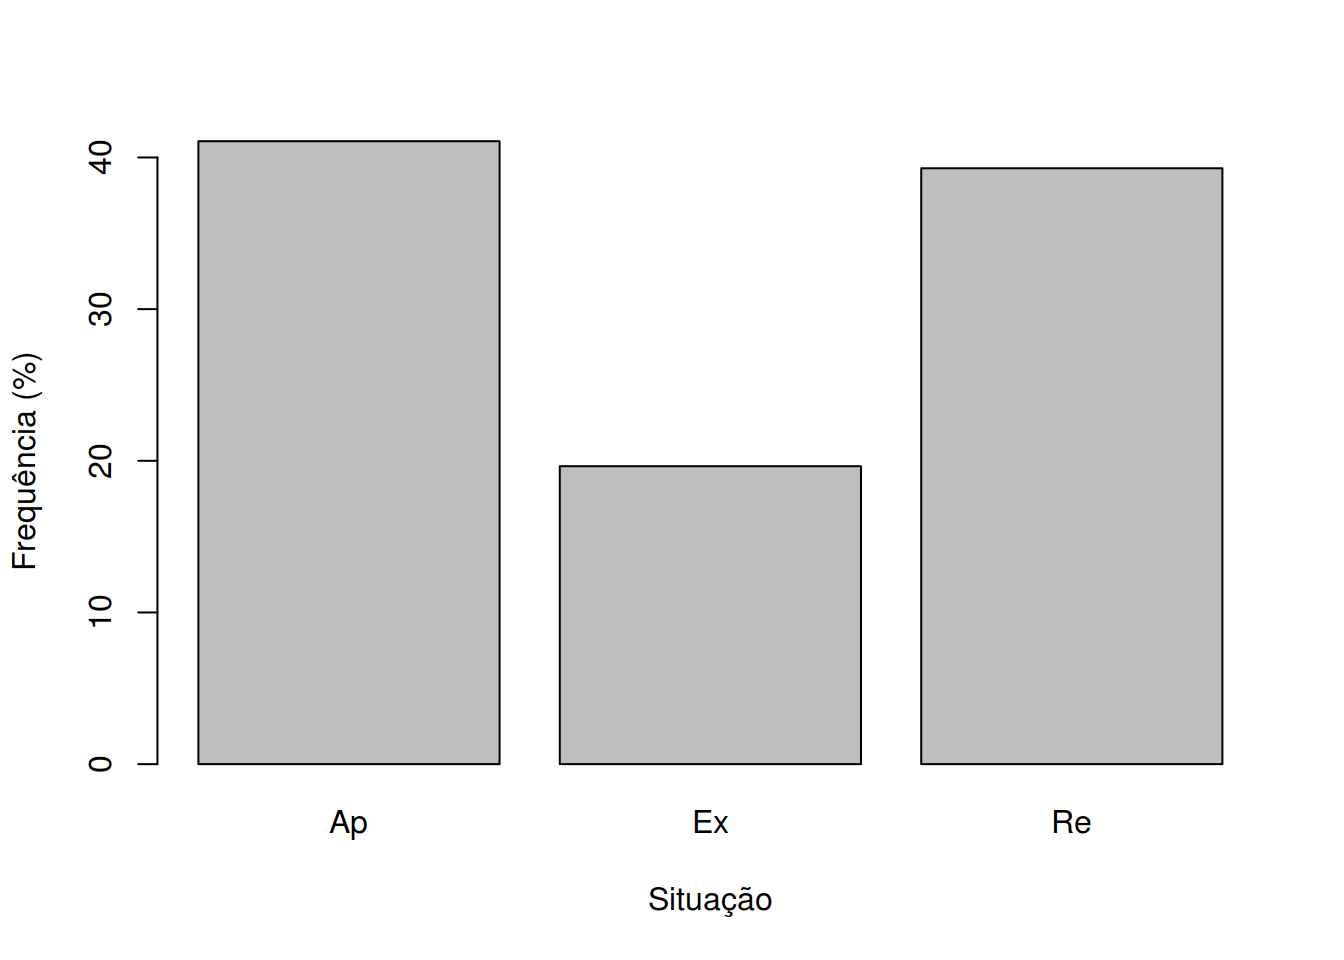
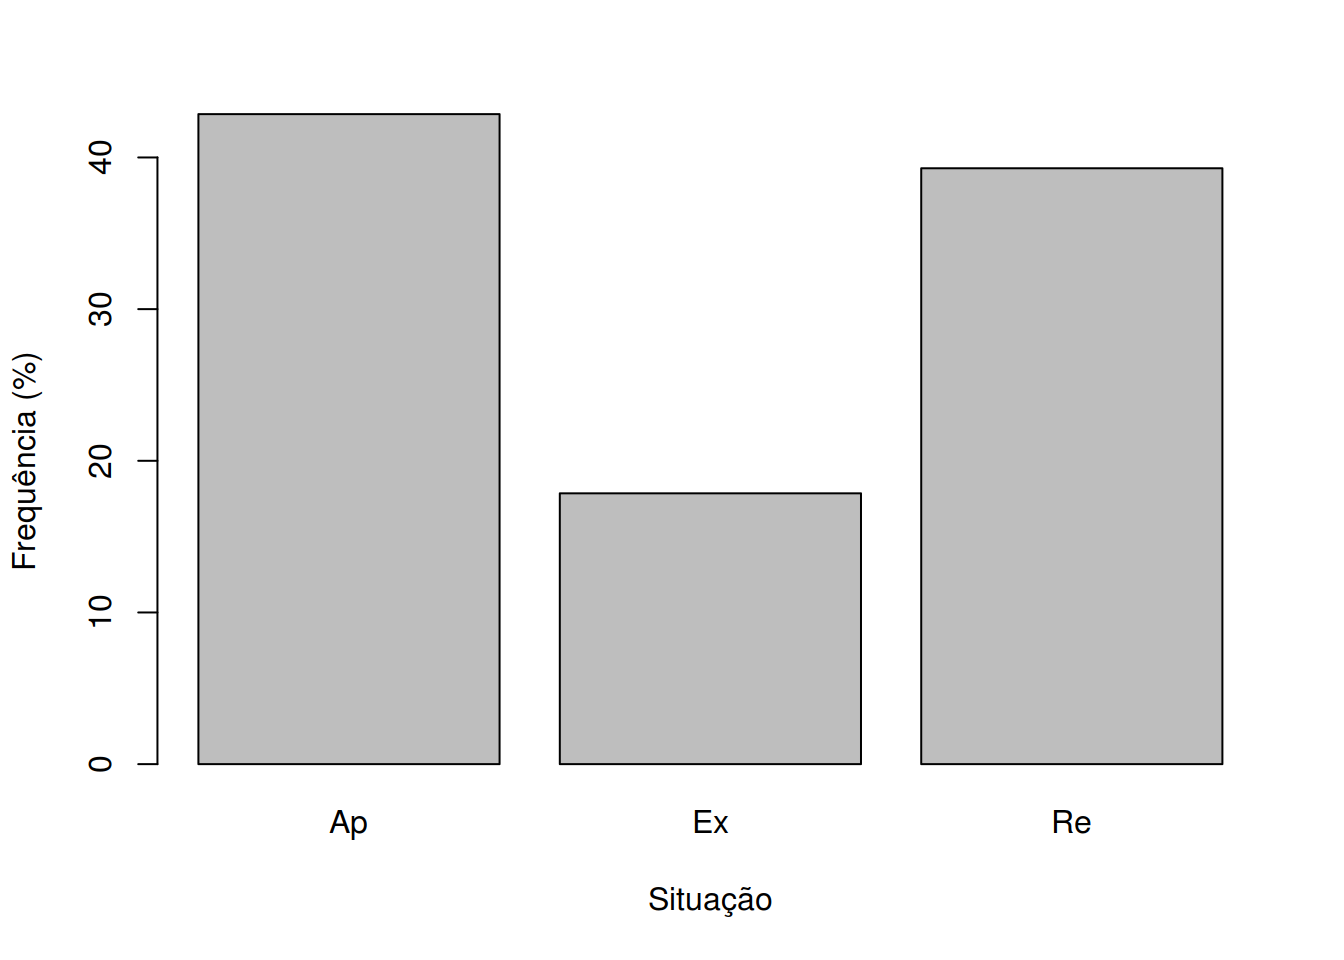
Atualiza uma nota

Changed region(s): [[0.4062, 0.4688, 0.6562, 0.5312], [0.125, 0.0938, 0.375, 0.1562]]

diff --git a/04_Entrada_de_dados.html b/04_Entrada_de_dados.html
@@ -679,49 +679,23 @@ str(dados.xls)</code></pre>
 <p>Para carregar conjuntos de dados que são disponibilizados com o R, use o comando <code>data()</code>. Por exemplo, abaixo mostramos como carregar o conjunto <code>mtcars</code> que está no pacote <strong>datasets</strong>.</p>
 <pre class="r"><code>## Objetos criados até o momento nesta seção
 ls()</code></pre>
-<pre><code> [1] &quot;aulas&quot;        &quot;aulas.eff&quot;    &quot;breaks&quot;       &quot;cara&quot;        
- [5] &quot;caracter&quot;     &quot;civ.inst.tb&quot;  &quot;civil.tb&quot;     &quot;cond.exam1&quot;  
- [9] &quot;cond.freq&quot;    &quot;cond.nota1&quot;   &quot;cond.nota2&quot;   &quot;cont&quot;        
-[13] &quot;d1&quot;           &quot;d2&quot;           &quot;da&quot;           &quot;da2&quot;         
-[17] &quot;dados&quot;        &quot;dados.clip&quot;   &quot;dados.xls&quot;    &quot;dados2&quot;      
-[21] &quot;dcham&quot;        &quot;desc1&quot;        &quot;difer&quot;        &quot;dscham&quot;      
-[25] &quot;fator&quot;        &quot;feri&quot;         &quot;filhos.qt&quot;    &quot;filhos.tb&quot;   
-[29] &quot;filhos.tba&quot;   &quot;filhos.tbr&quot;   &quot;idade.cut&quot;    &quot;idade.cut2&quot;  
-[33] &quot;ind&quot;          &quot;inst.sal.tb&quot;  &quot;inst.tb&quot;      &quot;iris&quot;        
-[37] &quot;la&quot;           &quot;lis&quot;          &quot;lista&quot;        &quot;logico&quot;      
-[41] &quot;m&quot;            &quot;ma&quot;           &quot;mat&quot;          &quot;matriz&quot;      
-[45] &quot;matriz2&quot;      &quot;milsa&quot;        &quot;mtcars&quot;       &quot;notas&quot;       
-[49] &quot;notas.all&quot;    &quot;notas.col&quot;    &quot;notas2&quot;       &quot;np&quot;          
-[53] &quot;num&quot;          &quot;ola.mundo&quot;    &quot;out&quot;          &quot;perd&quot;        
-[57] &quot;salario.cut&quot;  &quot;salario.cut2&quot; &quot;salario.hist&quot; &quot;salario.qt&quot;  
-[61] &quot;salario.tb&quot;   &quot;sfim1&quot;        &quot;sfim2&quot;        &quot;sini1&quot;       
-[65] &quot;sini2&quot;        &quot;statm&quot;        &quot;texto&quot;        &quot;topo&quot;        
-[69] &quot;url&quot;          &quot;w&quot;            &quot;x&quot;            &quot;xf&quot;          
-[73] &quot;y&quot;            &quot;z&quot;           </code></pre>
+<pre><code> [1] &quot;cara&quot;       &quot;caracter&quot;   &quot;cont&quot;       &quot;da&quot;         &quot;dados&quot;     
+ [6] &quot;dados.clip&quot; &quot;dados.xls&quot;  &quot;dados2&quot;     &quot;fator&quot;      &quot;ind&quot;       
+[11] &quot;lis&quot;        &quot;lista&quot;      &quot;logico&quot;     &quot;m&quot;          &quot;mat&quot;       
+[16] &quot;matriz&quot;     &quot;matriz2&quot;    &quot;num&quot;        &quot;ola.mundo&quot;  &quot;perd&quot;      
+[21] &quot;texto&quot;      &quot;w&quot;          &quot;x&quot;          &quot;xf&quot;         &quot;y&quot;         
+[26] &quot;z&quot;         </code></pre>
 <pre class="r"><code>## Carregaga a base de dados mtcars
 data(mtcars)
 ## Note como agora o objeto mtcars fica disponível na sua área de
 ## trabalho
 ls()</code></pre>
-<pre><code> [1] &quot;aulas&quot;        &quot;aulas.eff&quot;    &quot;breaks&quot;       &quot;cara&quot;        
- [5] &quot;caracter&quot;     &quot;civ.inst.tb&quot;  &quot;civil.tb&quot;     &quot;cond.exam1&quot;  
- [9] &quot;cond.freq&quot;    &quot;cond.nota1&quot;   &quot;cond.nota2&quot;   &quot;cont&quot;        
-[13] &quot;d1&quot;           &quot;d2&quot;           &quot;da&quot;           &quot;da2&quot;         
-[17] &quot;dados&quot;        &quot;dados.clip&quot;   &quot;dados.xls&quot;    &quot;dados2&quot;      
-[21] &quot;dcham&quot;        &quot;desc1&quot;        &quot;difer&quot;        &quot;dscham&quot;      
-[25] &quot;fator&quot;        &quot;feri&quot;         &quot;filhos.qt&quot;    &quot;filhos.tb&quot;   
-[29] &quot;filhos.tba&quot;   &quot;filhos.tbr&quot;   &quot;idade.cut&quot;    &quot;idade.cut2&quot;  
-[33] &quot;ind&quot;          &quot;inst.sal.tb&quot;  &quot;inst.tb&quot;      &quot;iris&quot;        
-[37] &quot;la&quot;           &quot;lis&quot;          &quot;lista&quot;        &quot;logico&quot;      
-[41] &quot;m&quot;            &quot;ma&quot;           &quot;mat&quot;          &quot;matriz&quot;      
-[45] &quot;matriz2&quot;      &quot;milsa&quot;        &quot;mtcars&quot;       &quot;notas&quot;       
-[49] &quot;notas.all&quot;    &quot;notas.col&quot;    &quot;notas2&quot;       &quot;np&quot;          
-[53] &quot;num&quot;          &quot;ola.mundo&quot;    &quot;out&quot;          &quot;perd&quot;        
-[57] &quot;salario.cut&quot;  &quot;salario.cut2&quot; &quot;salario.hist&quot; &quot;salario.qt&quot;  
-[61] &quot;salario.tb&quot;   &quot;sfim1&quot;        &quot;sfim2&quot;        &quot;sini1&quot;       
-[65] &quot;sini2&quot;        &quot;statm&quot;        &quot;texto&quot;        &quot;topo&quot;        
-[69] &quot;url&quot;          &quot;w&quot;            &quot;x&quot;            &quot;xf&quot;          
-[73] &quot;y&quot;            &quot;z&quot;           </code></pre>
+<pre><code> [1] &quot;cara&quot;       &quot;caracter&quot;   &quot;cont&quot;       &quot;da&quot;         &quot;dados&quot;     
+ [6] &quot;dados.clip&quot; &quot;dados.xls&quot;  &quot;dados2&quot;     &quot;fator&quot;      &quot;ind&quot;       
+[11] &quot;lis&quot;        &quot;lista&quot;      &quot;logico&quot;     &quot;m&quot;          &quot;mat&quot;       
+[16] &quot;matriz&quot;     &quot;matriz2&quot;    &quot;mtcars&quot;     &quot;num&quot;        &quot;ola.mundo&quot; 
+[21] &quot;perd&quot;       &quot;texto&quot;      &quot;w&quot;          &quot;x&quot;          &quot;xf&quot;        
+[26] &quot;y&quot;          &quot;z&quot;         </code></pre>
 <pre class="r"><code>## Estrutura e visualização do objeto
 str(mtcars)</code></pre>
 <pre><code>&#39;data.frame&#39;:   32 obs. of  11 variables:
@@ -752,25 +726,12 @@ Valiant           18.1   6  225 105 2.76 3.460 20.22  1  0    3    1</code></pre
 <p>e agora podemos carregar o objeto <code>topo</code> com</p>
 <pre class="r"><code>data(topo)
 ls()</code></pre>
-<pre><code> [1] &quot;aulas&quot;        &quot;aulas.eff&quot;    &quot;breaks&quot;       &quot;cara&quot;        
- [5] &quot;caracter&quot;     &quot;civ.inst.tb&quot;  &quot;civil.tb&quot;     &quot;cond.exam1&quot;  
- [9] &quot;cond.freq&quot;    &quot;cond.nota1&quot;   &quot;cond.nota2&quot;   &quot;cont&quot;        
-[13] &quot;d1&quot;           &quot;d2&quot;           &quot;da&quot;           &quot;da2&quot;         
-[17] &quot;dados&quot;        &quot;dados.clip&quot;   &quot;dados.xls&quot;    &quot;dados2&quot;      
-[21] &quot;dcham&quot;        &quot;desc1&quot;        &quot;difer&quot;        &quot;dscham&quot;      
-[25] &quot;fator&quot;        &quot;feri&quot;         &quot;filhos.qt&quot;    &quot;filhos.tb&quot;   
-[29] &quot;filhos.tba&quot;   &quot;filhos.tbr&quot;   &quot;idade.cut&quot;    &quot;idade.cut2&quot;  
-[33] &quot;ind&quot;          &quot;inst.sal.tb&quot;  &quot;inst.tb&quot;      &quot;iris&quot;        
-[37] &quot;la&quot;           &quot;lis&quot;          &quot;lista&quot;        &quot;logico&quot;      
-[41] &quot;m&quot;            &quot;ma&quot;           &quot;mat&quot;          &quot;matriz&quot;      
-[45] &quot;matriz2&quot;      &quot;milsa&quot;        &quot;mtcars&quot;       &quot;notas&quot;       
-[49] &quot;notas.all&quot;    &quot;notas.col&quot;    &quot;notas2&quot;       &quot;np&quot;          
-[53] &quot;num&quot;          &quot;ola.mundo&quot;    &quot;out&quot;          &quot;perd&quot;        
-[57] &quot;salario.cut&quot;  &quot;salario.cut2&quot; &quot;salario.hist&quot; &quot;salario.qt&quot;  
-[61] &quot;salario.tb&quot;   &quot;sfim1&quot;        &quot;sfim2&quot;        &quot;sini1&quot;       
-[65] &quot;sini2&quot;        &quot;statm&quot;        &quot;texto&quot;        &quot;topo&quot;        
-[69] &quot;url&quot;          &quot;w&quot;            &quot;x&quot;            &quot;xf&quot;          
-[73] &quot;y&quot;            &quot;z&quot;           </code></pre>
+<pre><code> [1] &quot;cara&quot;       &quot;caracter&quot;   &quot;cont&quot;       &quot;da&quot;         &quot;dados&quot;     
+ [6] &quot;dados.clip&quot; &quot;dados.xls&quot;  &quot;dados2&quot;     &quot;fator&quot;      &quot;ind&quot;       
+[11] &quot;lis&quot;        &quot;lista&quot;      &quot;logico&quot;     &quot;m&quot;          &quot;mat&quot;       
+[16] &quot;matriz&quot;     &quot;matriz2&quot;    &quot;mtcars&quot;     &quot;num&quot;        &quot;ola.mundo&quot; 
+[21] &quot;perd&quot;       &quot;texto&quot;      &quot;topo&quot;       &quot;w&quot;          &quot;x&quot;         
+[26] &quot;xf&quot;         &quot;y&quot;          &quot;z&quot;         </code></pre>
 <pre class="r"><code>str(topo)</code></pre>
 <pre><code>&#39;data.frame&#39;:   52 obs. of  3 variables:
  $ x: num  0.3 1.4 2.4 3.6 5.7 1.6 2.9 3.4 3.4 4.8 ...

diff --git a/00_ce083-intro.html b/00_ce083-intro.html
@@ -452,25 +452,7 @@ code > span.in { color: #60a0b0; font-weight: bold; font-style: italic; } /* Inf
 <p><img src="img/script-assign.png" width="400px" /></p>
 <p>Para saber quais objetos estão criados, usamos a <strong>função</strong> <code>ls()</code></p>
 <div class="sourceCode"><pre class="sourceCode r"><code class="sourceCode r">&gt;<span class="st"> </span><span class="kw">ls</span>()</code></pre></div>
-<pre><code> [1] &quot;aulas&quot;        &quot;aulas.eff&quot;    &quot;breaks&quot;       &quot;cara&quot;        
- [5] &quot;caracter&quot;     &quot;civ.inst.tb&quot;  &quot;civil.tb&quot;     &quot;cond.exam1&quot;  
- [9] &quot;cond.freq&quot;    &quot;cond.nota1&quot;   &quot;cond.nota2&quot;   &quot;cont&quot;        
-[13] &quot;d1&quot;           &quot;d2&quot;           &quot;da&quot;           &quot;da2&quot;         
-[17] &quot;dados&quot;        &quot;dados.clip&quot;   &quot;dados.xls&quot;    &quot;dados2&quot;      
-[21] &quot;dcham&quot;        &quot;desc1&quot;        &quot;difer&quot;        &quot;dscham&quot;      
-[25] &quot;fator&quot;        &quot;feri&quot;         &quot;filhos.qt&quot;    &quot;filhos.tb&quot;   
-[29] &quot;filhos.tba&quot;   &quot;filhos.tbr&quot;   &quot;idade.cut&quot;    &quot;idade.cut2&quot;  
-[33] &quot;ind&quot;          &quot;inst.sal.tb&quot;  &quot;inst.tb&quot;      &quot;iris&quot;        
-[37] &quot;la&quot;           &quot;lis&quot;          &quot;lista&quot;        &quot;logico&quot;      
-[41] &quot;m&quot;            &quot;ma&quot;           &quot;mat&quot;          &quot;matriz&quot;      
-[45] &quot;matriz2&quot;      &quot;milsa&quot;        &quot;mtcars&quot;       &quot;notas&quot;       
-[49] &quot;notas.all&quot;    &quot;notas.col&quot;    &quot;notas2&quot;       &quot;np&quot;          
-[53] &quot;num&quot;          &quot;ola.mundo&quot;    &quot;out&quot;          &quot;perd&quot;        
-[57] &quot;salario.cut&quot;  &quot;salario.cut2&quot; &quot;salario.hist&quot; &quot;salario.qt&quot;  
-[61] &quot;salario.tb&quot;   &quot;sfim1&quot;        &quot;sfim2&quot;        &quot;sini1&quot;       
-[65] &quot;sini2&quot;        &quot;statm&quot;        &quot;texto&quot;        &quot;topo&quot;        
-[69] &quot;url&quot;          &quot;w&quot;            &quot;x&quot;            &quot;xf&quot;          
-[73] &quot;y&quot;            &quot;z&quot;           </code></pre>
+<pre><code>[1] &quot;x&quot; &quot;y&quot;</code></pre>
 </section>
 <section id="salvando-resultados-2" class="slide level1">
 <h1>“Salvando” resultados</h1>

diff --git a/notas.html b/notas.html
@@ -317,7 +317,7 @@ hist(notas.all, breaks = breaks, right = FALSE, include.lowest = TRUE,
 }
 round(statm(notas.all), 2)</code></pre>
 <pre><code>  Min    Q1    Q2    Q3   Max Média     s   NAs 
- 0.00  5.29  7.10  8.00 10.00  6.56  2.25 50.00 </code></pre>
+ 0.00  5.30  7.10  8.00 10.00  6.60  2.23 50.00 </code></pre>
 </div>
 <div id="resumos-por-prova" class="section level2">
 <h2>Resumos por prova</h2>
@@ -329,12 +329,12 @@ boxplot(notas[, notas.col], ylim = c(0, 10), ylab = &quot;Notas&quot;)</code></p
 <pre class="r"><code>round(apply(notas[, notas.col, drop = FALSE], 2, statm), 2)</code></pre>
 <pre><code>         P1    P2    P3
 Min    1.81  0.00  0.31
-Q1     5.32  5.88  4.83
-Q2     7.14  7.08  6.93
+Q1     5.58  5.88  4.83
+Q2     7.24  7.08  6.93
 Q3     8.29  8.04  7.87
 Max   10.00  8.93  9.50
-Média  6.71  6.60  6.35
-s      2.45  2.09  2.20
+Média  6.80  6.60  6.35
+s      2.41  2.09  2.20
 NAs   13.00 17.00 20.00</code></pre>
 </div>
 <div id="notas-individuais" class="section level2">
@@ -723,12 +723,12 @@ NAs   13.00 17.00 20.00</code></pre>
 </tr>
 <tr class="odd">
 <td align="center">20160230</td>
-<td align="center">3.85</td>
+<td align="center">7.70</td>
 <td align="center">7.10</td>
 <td align="center">7.71</td>
-<td align="center">6.22</td>
+<td align="center">7.50</td>
 <td align="center">97</td>
-<td align="center">Ex</td>
+<td align="center">Ap</td>
 </tr>
 <tr class="even">
 <td align="center">20160231</td>
@@ -871,7 +871,7 @@ NAs   13.00 17.00 20.00</code></pre>
 <pre class="r"><code>addmargins(table(notas2$S))</code></pre>
 <pre><code>
  Ap  Ex  Re Sum 
- 23  11  22  56 </code></pre>
+ 24  10  22  56 </code></pre>
 <p>Gráfico de barras com os percentuais por situação:</p>
 <pre class="r"><code>barplot(prop.table(table(notas2$S))*100,
         xlab = &quot;Situação&quot;, ylab = &quot;Frequência (%)&quot;,
